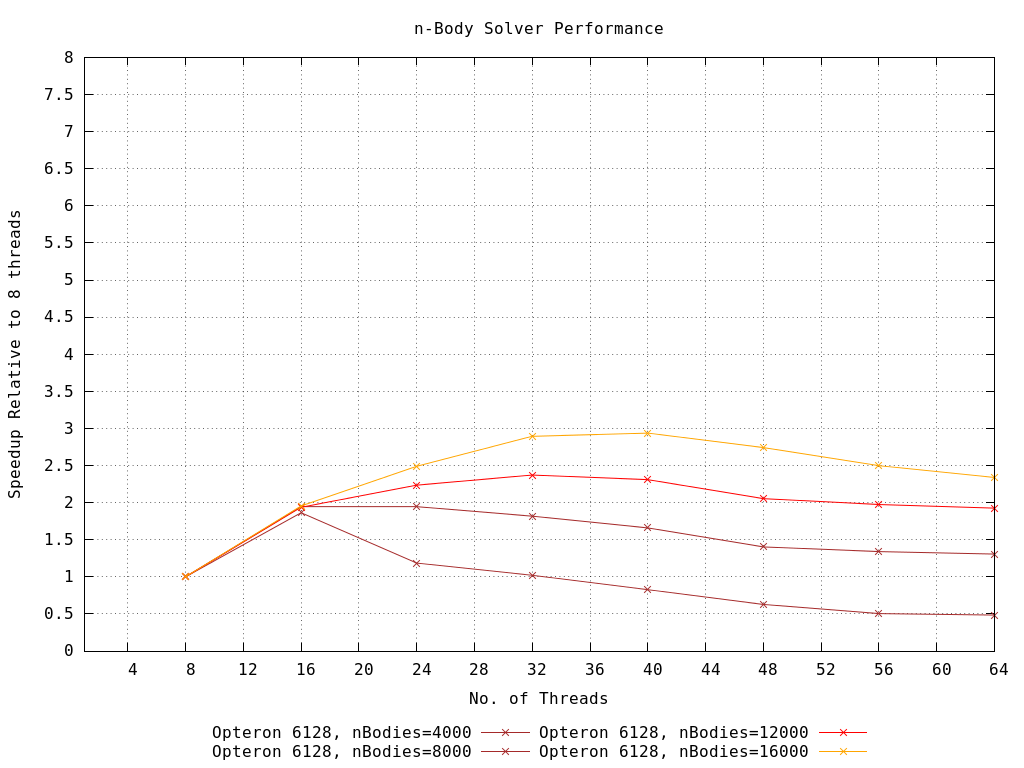
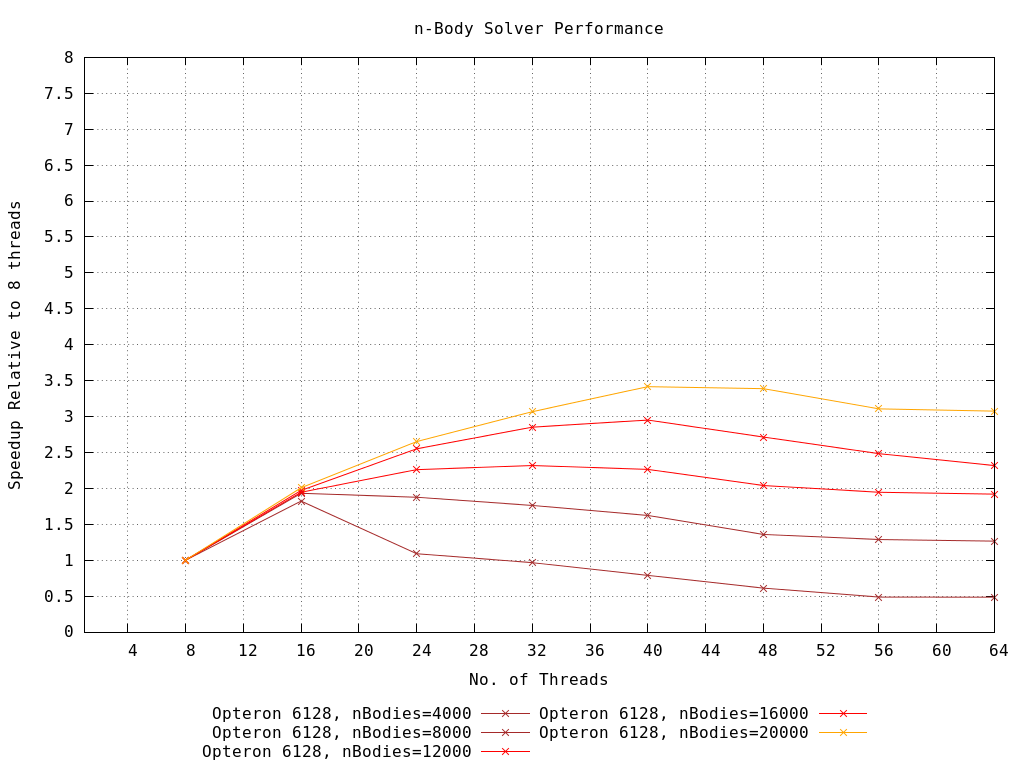
Readme update with MPI stuff

diff --git a/README.md b/README.md
@@ -62,17 +62,25 @@ This scheme seems to have worked well. With 16 threads (no SSE!) we now spend ar
 ![MPI Scaling](plots/img/4-plot.png)
 
 #### More than one node...
-The cluster available for testing has only gigabit ethernet interconnects. As soon as we start splitting ranks across nodes, performance degrades. If we run 16 threads (no SSE!) as above but with 1 thread on each of 16 nodes, communication accounts for some 35% of the runtime:
+The cluster available for testing has only gigabit ethernet interconnects. As soon as we start splitting ranks across nodes, performance degrades. If we run 16 threads (no SSE!) as above but with 1 thread on each of 16 nodes, communication accounts for some 45% of the runtime:
 
 ![16 nodes, Vampir](plots/img/5-poorcomms.png)
 
-We can try to run with a larger problem size. The computation scales with nBodies^2, whereas the data transfer scales linearly. This allows more than one node to be of benefit for larger problem sizes, but the scaling is still not very good.
+We can try to run with a larger problem size. The computation scales with nBodies^2, whereas the data transfer scales linearly. This allows more than one node to be of benefit for larger problem sizes, but the scaling is still not very good:
 
 ![MPI Scaling](plots/img/5-plot.png)
 
+The problem is that we are saturating the gigabit links between nodes after ~32 threads.
 
-#### Overlapping Computation and Communication
+The first thing to realize is that the `UpdatePositions` function takes almost no time at all. It would be far better (since we are using `MPI_Allreduce`, so all ranks know the full acceleration array) if each rank were to update its own position arrays and avoid the broadcast entirely. This dramatically cuts the network usage, and we start to see some reasonable scaling:
 
+![MPI Scaling](plots/img/5-plot-nor.png)
+
+The remaining bottleneck is `MPI_Allreduce`. This cannot usefully be overlapped with any computation, so the only way to make any further gains is to reduce the number of ranks taking part in the reduction.
+
+
+### Hybrid MPI + OpenMP
+This can be achieved with a mixture of MPI and OpenMP. The goal is to run fewer MPI threads per node, with OpenMP threading loops within each rank's section of particles. Whether it is best to run a single MPI thread per node, or to run more needs to be investigated.
 
 
 
